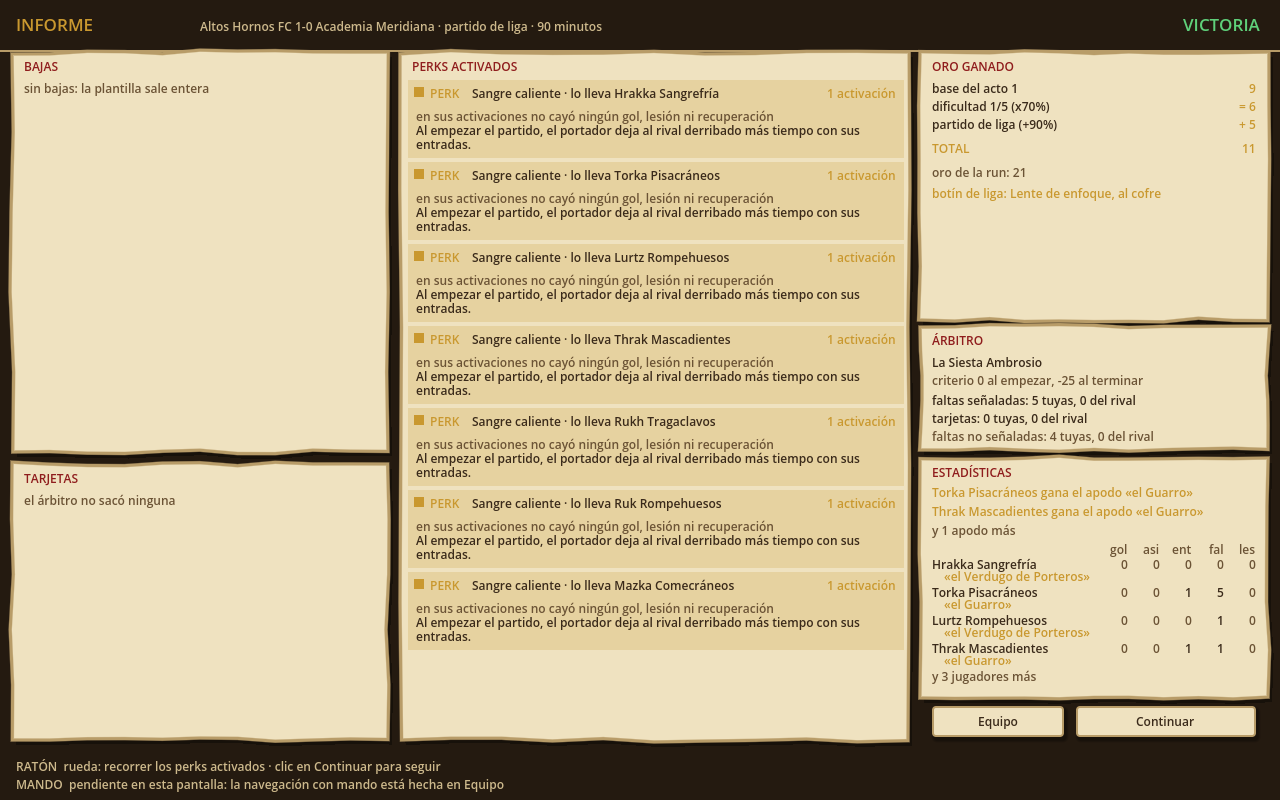
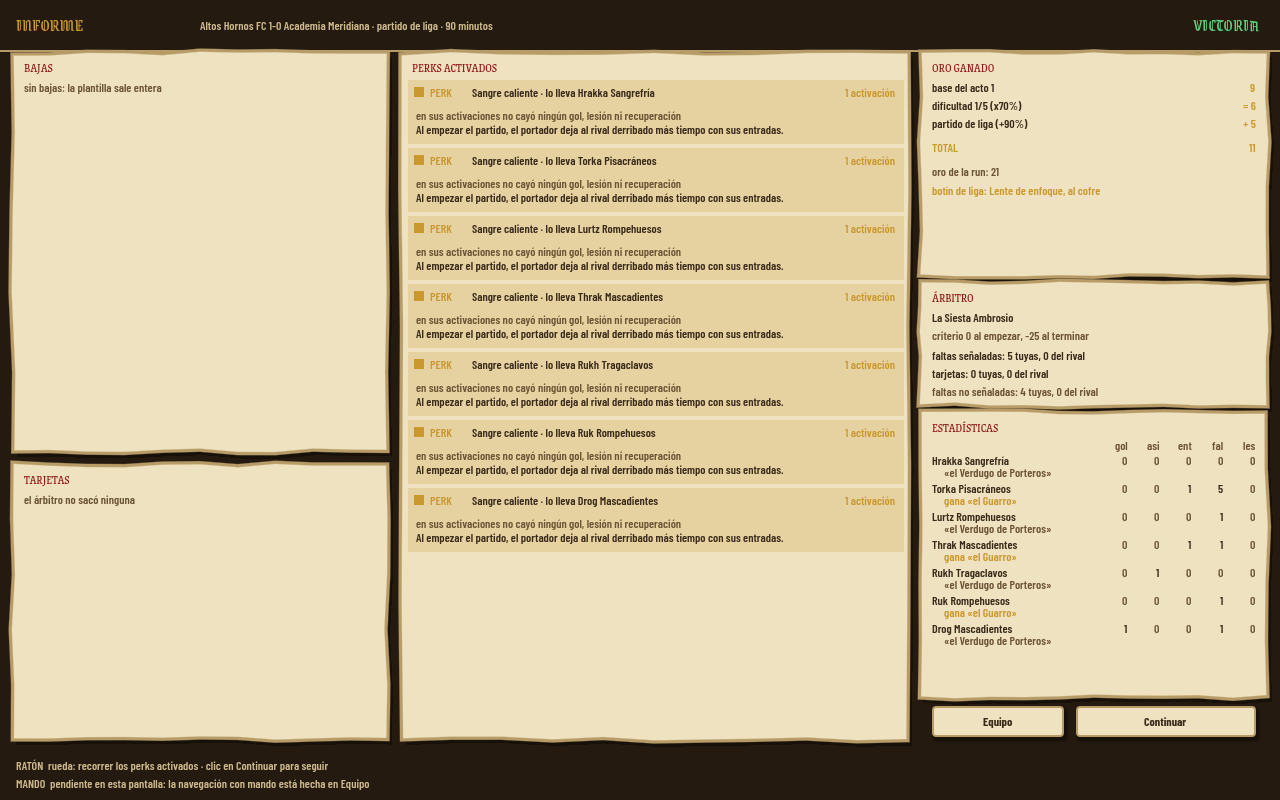
fix(game): el panel de estadísticas del informe enseña las siete filas y los apodos ganados — ADR 0163, RF-119
Con seis apodos ganados el panel enseñaba cinco de siete filas (con dos, cuatro): un bloque de apodos arriba
(dos líneas y «y N apodos más») y una segunda línea por jugador se comían el sitio, y lo que desaparecía
era gente. El apodo ganado va ahora en la fila del jugador, con su verbo («gana», «pasa de… a…») y en acento; el
que ya tenía, apagado. El panel del oro se acorta al peor caso de su contenido (desglose, botín y apuesta) y las
estadísticas ocupan el resto de la columna. Nueva captura del peor caso del oro, que fija ese alto.

Claude-Session: https://claude.ai/code/session_01WB28ukztfAkxX7LkbMPfzV

diff --git a/Game/Screens/ReportScreen.cs b/Game/Screens/ReportScreen.cs
@@ -343,7 +343,10 @@ public partial class ReportScreen : Control
     /// <summary>Columna derecha: el desglose del oro y el apartado del árbitro (RF-119, RF-114g..i).</summary>
     private void Gold()
     {
-        Widgets.Panel(this, new Rect2(920f, 52f, 348f, 268f));
+        // El panel del oro mide lo que su contenido peor (desglose, botín y apuesta: acaba en y = 264) más un
+        // respiro. Con 268 sobraban ~50 px casi siempre, y ese sitio es el que le faltaba a las estadísticas: con
+        // varios apodos ganados enseñaban ~4 de 7 filas (ADR 0163).
+        Widgets.Panel(this, new Rect2(920f, 52f, 348f, GoldPanelHeight));
         Widgets.Section(this, UiText.Get("ui.report.gold"), new Vector2(932f, 58f), 320f);
 
         float y = 80f;
@@ -404,11 +407,12 @@ public partial class ReportScreen : Control
                 bet.Met ? Style.LinkCreated : Style.Hole);
         }
 
-        Widgets.Panel(this, new Rect2(920f, 326f, 348f, 124f));
-        Widgets.Section(this, UiText.Get("ui.report.referee"), new Vector2(932f, 332f), 320f);
+        float refereeTop = 52f + GoldPanelHeight + PanelGap;
+        Widgets.Panel(this, new Rect2(920f, refereeTop, 348f, RefereePanelHeight));
+        Widgets.Section(this, UiText.Get("ui.report.referee"), new Vector2(932f, refereeTop + 6f), 320f);
         var referee = _report.Referee;
-        Widgets.Body(this, referee.Name, new Vector2(932f, 354f), 324f);
-        Widgets.Body(this, UiText.Get("ui.report.refereeBias", referee.InitialBias, referee.FinalBias), new Vector2(932f, 372f), 324f, Style.TextDim);
+        Widgets.Body(this, referee.Name, new Vector2(932f, refereeTop + 28f), 324f);
+        Widgets.Body(this, UiText.Get("ui.report.refereeBias", referee.InitialBias, referee.FinalBias), new Vector2(932f, refereeTop + 46f), 324f, Style.TextDim);
 
         // ADR 0158 §5 (la mitad de RF-119 que faltaba): FoulsFor/FoulsAgainst ya CUENTAN las no
         // señaladas (Unseen es un subconjunto, no una cifra aparte), así que "señaladas" se resta aquí
@@ -417,59 +421,52 @@ public partial class ReportScreen : Control
         Widgets.Body(
             this,
             UiText.Get("ui.report.refereeFouls", referee.FoulsFor - referee.UnseenFoulsFor, referee.FoulsAgainst - referee.UnseenFoulsAgainst),
-            new Vector2(932f, 392f),
+            new Vector2(932f, refereeTop + 66f),
             324f);
-        Widgets.Body(this, UiText.Get("ui.report.refereeCards", referee.CardsFor, referee.CardsAgainst), new Vector2(932f, 410f), 324f);
+        Widgets.Body(this, UiText.Get("ui.report.refereeCards", referee.CardsFor, referee.CardsAgainst), new Vector2(932f, refereeTop + 84f), 324f);
         Widgets.Body(
             this,
             UiText.Get("ui.report.refereeUnseen", referee.UnseenFoulsFor, referee.UnseenFoulsAgainst),
-            new Vector2(932f, 428f),
+            new Vector2(932f, refereeTop + 102f),
             324f,
             Style.TextDim);
 
-        Stats();
+        Stats(refereeTop + RefereePanelHeight + PanelGap);
     }
+
+    /// <summary>Alto del panel del oro: el desglose, el botín y la apuesta más un respiro (ver <see cref="Gold"/>).</summary>
+    private const float GoldPanelHeight = 224f;
+
+    /// <summary>Alto del panel del árbitro: cabecera, nombre, criterio, faltas, tarjetas y no señaladas.</summary>
+    private const float RefereePanelHeight = 124f;
+
+    /// <summary>Separación entre los paneles de la columna derecha.</summary>
+    private const float PanelGap = 6f;
+
+    /// <summary>Borde inferior de la columna derecha: el mismo que llevaba el panel de estadísticas, encima de los botones.</summary>
+    private const float ColumnBottom = 698f;
 
     /// <summary>
     /// Estadísticas de cada jugador propio en el partido y los apodos que este partido ha dado (ADR 0163).
-    /// Las cifras son las de <c>MatchReport.Players</c>, tal cual las compone <c>PostMatchView</c>. Los
-    /// apodos ganados van arriba: son lo que el jugador no debe perderse.
+    /// Las cifras son las de <c>MatchReport.Players</c>, tal cual las compone <c>PostMatchView</c>.
+    /// <para>
+    /// <b>Los apodos ganados van en su fila, no en un bloque aparte.</b> Con un bloque arriba («X gana el apodo…»,
+    /// dos líneas y «y N apodos más») y una segunda línea por jugador, seis apodos comían medio panel y sólo cabían
+    /// cinco de siete filas —con dos apodos, cuatro—, y lo que se perdía en silencio eran jugadores. En la fila, el
+    /// apodo ganado se lee con su verbo («gana», «pasa de… a…») y en color de acento, el que ya se tenía se apaga, y
+    /// caben todas las filas: siete de siete con un apodo cada una, ocho como máximo.
+    /// </para>
     /// </summary>
-    private void Stats()
+    /// <param name="panelTop">Borde superior del panel: pegado al del árbitro y hasta el fondo de la columna.</param>
+    private void Stats(float panelTop)
     {
-        const float panelTop = 458f;
-        Widgets.Panel(this, new Rect2(920f, panelTop, 348f, 240f));
+        float panelHeight = ColumnBottom - panelTop;
+        Widgets.Panel(this, new Rect2(920f, panelTop, 348f, panelHeight));
         Widgets.Section(this, UiText.Get("ui.report.stats"), new Vector2(932f, panelTop + 6f), 320f);
 
-        const float panelHeight = 240f;
         const float lineHeight = 15f;
         float bottomLimit = panelTop + panelHeight - 6f;
         float y = panelTop + 26f;
-
-        // Los apodos ganados van arriba y no se pierden en silencio: caben dos, los de MAYOR prioridad
-        // (la vista los ordena así, ADR 0163), y una línea dice cuántos más hay.
-        var earned = _report.NicknamesEarned;
-        const int nicknamesShown = 2;
-        for (int i = 0; i < earned.Count && i < nicknamesShown; i++)
-        {
-            var gain = earned[i];
-            string text = gain.PreviousNickname.Length > 0
-                ? UiText.Get("ui.report.nicknameUpgraded", gain.PlayerName, gain.Nickname, gain.PreviousNickname)
-                : UiText.Get("ui.report.nicknameEarned", gain.PlayerName, gain.Nickname);
-            var line = Widgets.Body(this, text, new Vector2(932f, y), 324f, Style.Accent);
-            y += line.Size.Y + 2f;
-        }
-
-        if (earned.Count > nicknamesShown)
-        {
-            var more = Widgets.Body(
-                this,
-                UiText.Plural(earned.Count - nicknamesShown, "ui.report.nicknamesMoreOne", "ui.report.nicknamesMore"),
-                new Vector2(932f, y),
-                324f,
-                Style.TextDim);
-            y += more.Size.Y + 2f;
-        }
 
         if (_report.PlayerStats.Count == 0)
         {
@@ -489,6 +486,12 @@ public partial class ReportScreen : Control
         // Nada desaparece sin explicación: cada fila con su apodo en una segunda línea (el nombre solo ya
         // ocupa el ancho de su columna, y «Nombre «Apodo»» a 160 px se cortaba), y si las filas no caben,
         // «y N jugadores más» con el sitio reservado antes de pintar la siguiente.
+        var earned = new Dictionary<int, NicknameGainRow>();
+        foreach (var gain in _report.NicknamesEarned)
+        {
+            earned[gain.PlayerId] = gain;
+        }
+
         var rows = _report.PlayerStats;
         for (int r = 0; r < rows.Count; r++)
         {
@@ -519,8 +522,15 @@ public partial class ReportScreen : Control
 
             if (row.Nickname.Length > 0)
             {
-                // Su propia línea, con el ancho de la cuadrícula entera: ya no se recorta a 160 px.
-                var nick = Widgets.Body(this, "«" + row.Nickname + "»", new Vector2(944f, y + lineHeight - 3f), 312f, Style.Accent);
+                // Su propia línea, con el ancho de la cuadrícula entera: ya no se recorta a 160 px. El apodo ganado
+                // en este partido lleva su verbo y el acento; el que ya tenía, apagado.
+                bool gained = earned.TryGetValue(row.PlayerId, out var gain);
+                string text = !gained
+                    ? "«" + row.Nickname + "»"
+                    : gain!.PreviousNickname.Length > 0
+                        ? UiText.Get("ui.report.nicknameUpgradedRow", gain.Nickname, gain.PreviousNickname)
+                        : UiText.Get("ui.report.nicknameEarnedRow", gain.Nickname);
+                var nick = Widgets.Body(this, text, new Vector2(944f, y + lineHeight - 3f), 312f, gained ? Style.Accent : Style.TextDim);
                 nick.AutowrapMode = TextServer.AutowrapMode.Off;
                 nick.ClipText = true;
                 nick.Size = new Vector2(312f, nick.Size.Y);

diff --git a/Game/Screens/MemoryCaptureRunner.cs b/Game/Screens/MemoryCaptureRunner.cs
@@ -107,6 +107,36 @@ public partial class MemoryCaptureRunner : Control
             break;
         }
 
+        // 2c. El panel del oro en su peor caso —desglose, botín de liga y apuesta a la vez—: es lo que fija el alto que le
+        //     queda a las estadísticas (el panel del oro se acortó para que quepan las siete filas, ADR 0163).
+        bool fullGold = false;
+        for (ulong seed = 1; seed <= 60 && !fullGold; seed++)
+        {
+            run.NewRun("orc_ironworks", Race.Orc, seed);
+            Forge(run, state => PrimeCareers(state, run));
+            var match = FirstMatch(run);
+            run.SelectedNodeId = match.Id;
+            run.Apply(new TakeBet(match.Id));
+            run.PlayMatch(match.Id);
+            var post = run.PostMatch();
+            if (post is null || post.Bet is null || post.Loot is null)
+            {
+                continue;
+            }
+
+            var report = await Show("res://Scenes/Informe.tscn");
+            await Save("memoria-informe-oro-completo");
+            GD.Print($"informe oro completo: semilla {seed}, apuesta cumplida {post.Bet.Met}");
+            Drop(report);
+            fullGold = true;
+        }
+
+        if (!fullGold)
+        {
+            GD.PushError("ninguna semilla de 1..60 dio un informe con apuesta y botín a la vez");
+            failures++;
+        }
+
         // 3. La Gaceta de una victoria y de una derrota con caídos.
         foreach (var (name, outcome) in new[]
         {

diff --git a/Game/Ui/UiText.cs b/Game/Ui/UiText.cs
@@ -586,10 +586,8 @@ public static class UiText
         ["ui.report.stats"] = "ESTADÍSTICAS",
         ["ui.report.statsHead"] = "gol asi ent fal les",
         ["ui.report.statsNone"] = "nadie pisó el campo",
-        ["ui.report.nicknameEarned"] = "{0} gana el apodo «{1}»",
-        ["ui.report.nicknameUpgraded"] = "{0} pasa de «{2}» a «{1}»",
-        ["ui.report.nicknamesMoreOne"] = "y 1 apodo más",
-        ["ui.report.nicknamesMore"] = "y {0} apodos más",
+        ["ui.report.nicknameEarnedRow"] = "gana «{0}»",
+        ["ui.report.nicknameUpgradedRow"] = "pasa de «{1}» a «{0}»",
         ["ui.report.statsMoreOne"] = "y 1 jugador más",
         ["ui.report.statsMore"] = "y {0} jugadores más",
         ["ui.gazette.obituariesMoreOne"] = "… y 1 esquela más, en la plantilla final",
